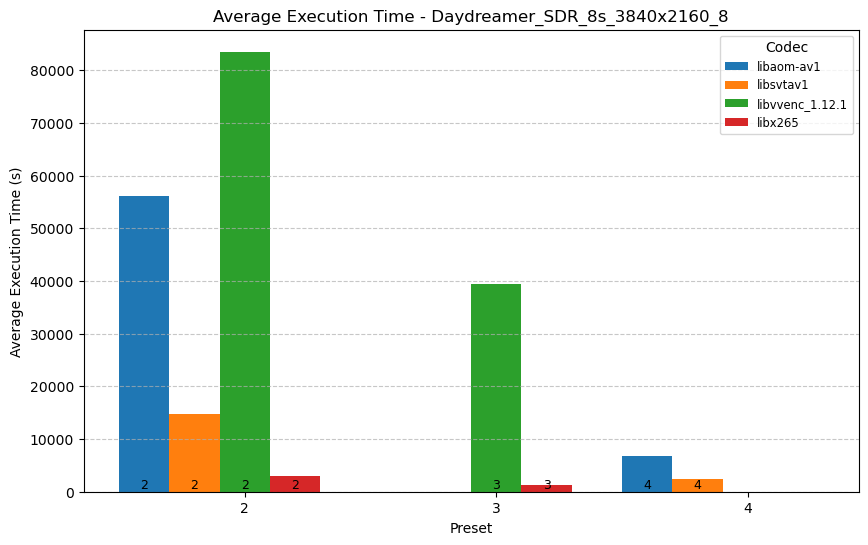
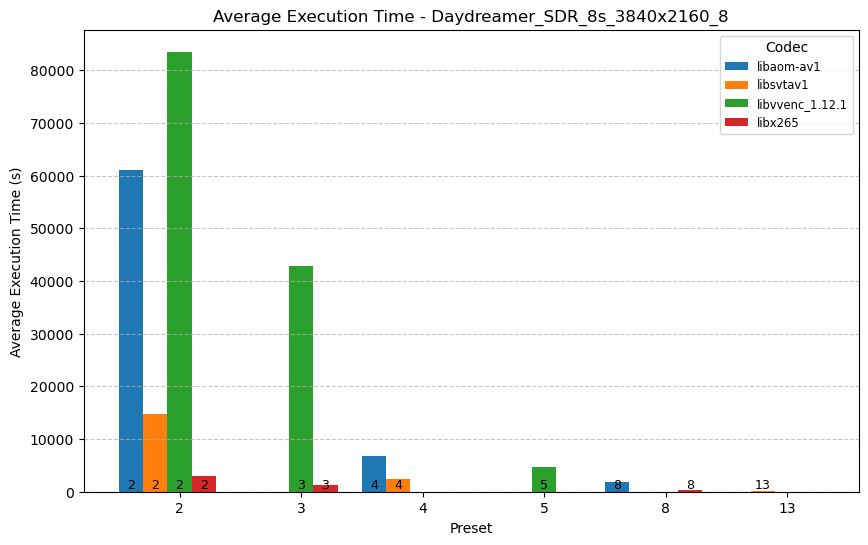
csv improvements

diff --git a/csv/csv6/filter_useless.py b/csv/csv6/filter_useless.py
@@ -1,0 +1,24 @@
+import pandas as pd
+
+# Percorso del file di input
+input_file = "out.csv"
+output_file = "filtered_out.csv"
+
+# Caricare il file CSV mantenendo il formato originale
+df = pd.read_csv(input_file, dtype=str)
+
+# Convertire le colonne numeriche per il filtraggio
+df["actual_bitrate"] = pd.to_numeric(df["actual_bitrate"], errors="coerce")
+df["vmaf"] = pd.to_numeric(df["vmaf"], errors="coerce")
+
+# Applicare i filtri richiesti:
+# 1. Eliminare le righe per la sequenza "Daydreamer" che hanno actual_bitrate superiore a 150000
+df = df[~((df["seq_name"] == "Daydreamer_SDR_8s_3840x2160_8") & (df["actual_bitrate"] > 150000))]
+
+# 2. Eliminare le righe per "vegetables_tuil_4k" con vmaf < 60 e actual_bitrate > 10000
+df = df[~((df["seq_name"] == "vegetables_tuil_4k") & ((df["vmaf"] < 60) | (df["actual_bitrate"] > 10000)))]
+
+# Salvare il file filtrato
+df.to_csv(output_file, index=False, quoting=1)
+
+print(f"File filtrato salvato come {output_file}")

diff --git a/csv/csv5/rename_sequences.py b/csv/csv5/rename_sequences.py
@@ -3,8 +3,8 @@ import pandas as pd
 # Percorso del file originale
 file_path = 'merged_results_updated.csv'
 
-# Caricamento del file CSV
-df = pd.read_csv(file_path)
+# Caricamento del file CSV senza alterare i tipi di dati
+df = pd.read_csv(file_path, dtype=str)
 
 # Mappatura delle sequenze da modificare
 sequence_name_changes = {
@@ -19,9 +19,9 @@ sequence_name_changes = {
 # Modifica dei nomi delle sequenze
 df['seq_name'] = df['seq_name'].replace(sequence_name_changes)
 
-# Salvataggio del nuovo file con i nomi aggiornati
-output_file_path = 'modified_sequences.csv'
-df.to_csv(output_file_path, index=False)
+# Salvataggio del nuovo file con i nomi aggiornati, preservando il formato
+df.to_csv('modified_sequences.csv', index=False, quoting=1)
 
-print(f"File salvato con i nomi delle sequenze modificati: {output_file_path}")
+print("File salvato con i nomi delle sequenze modificati: modified_sequences.csv")
+
 

diff --git a/csv/csv3/remove_vvenc.py b/csv/csv3/remove_vvenc.py
@@ -5,13 +5,13 @@ input_file = "merged_results.csv"
 # Path to the output CSV file
 output_file = "filtered_out.csv"
 
-# Read the CSV file
-data = pd.read_csv(input_file)
+# Read the CSV file without altering data types
+data = pd.read_csv(input_file, dtype=str)
 
 # Filter out rows where 'codec' column contains 'libvvenc'
 filtered_data = data[data['codec'] != 'libvvenc']
 
-# Save the filtered data to a new CSV file
-filtered_data.to_csv(output_file, index=False)
+# Save the filtered data to a new CSV file, preserving formatting
+filtered_data.to_csv(output_file, index=False, quoting=1)
 
 print(f"Filtered CSV file saved to {output_file}")
